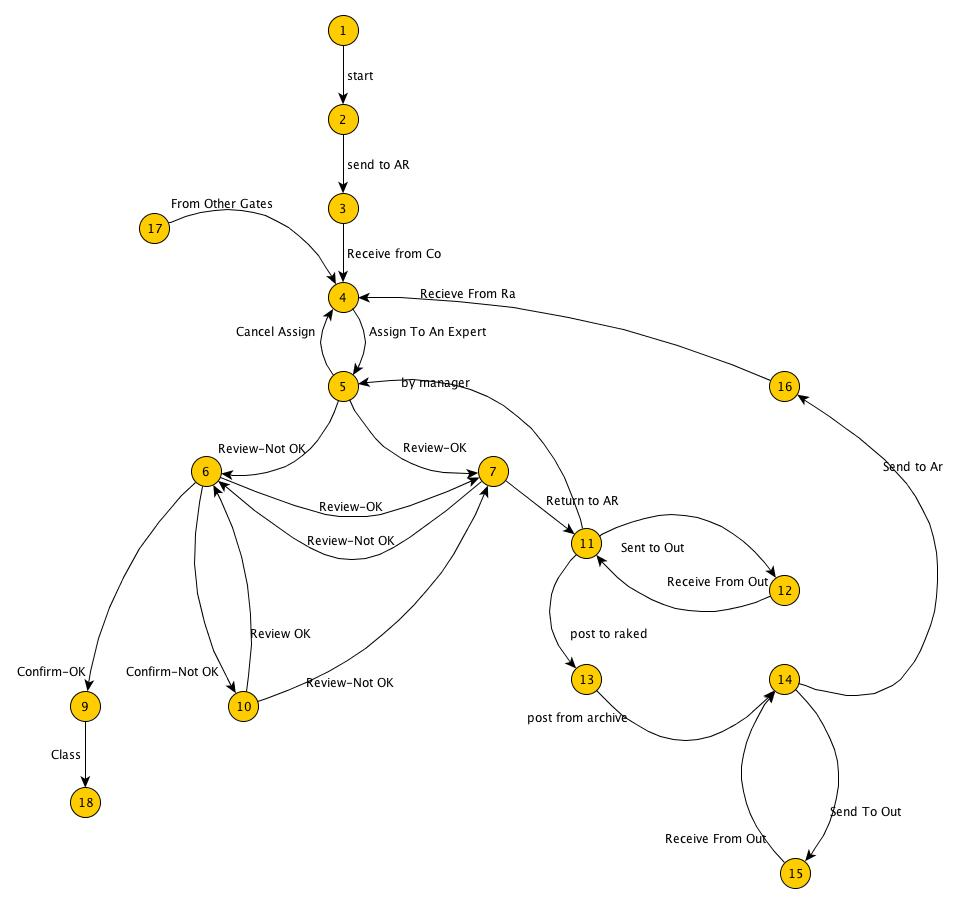
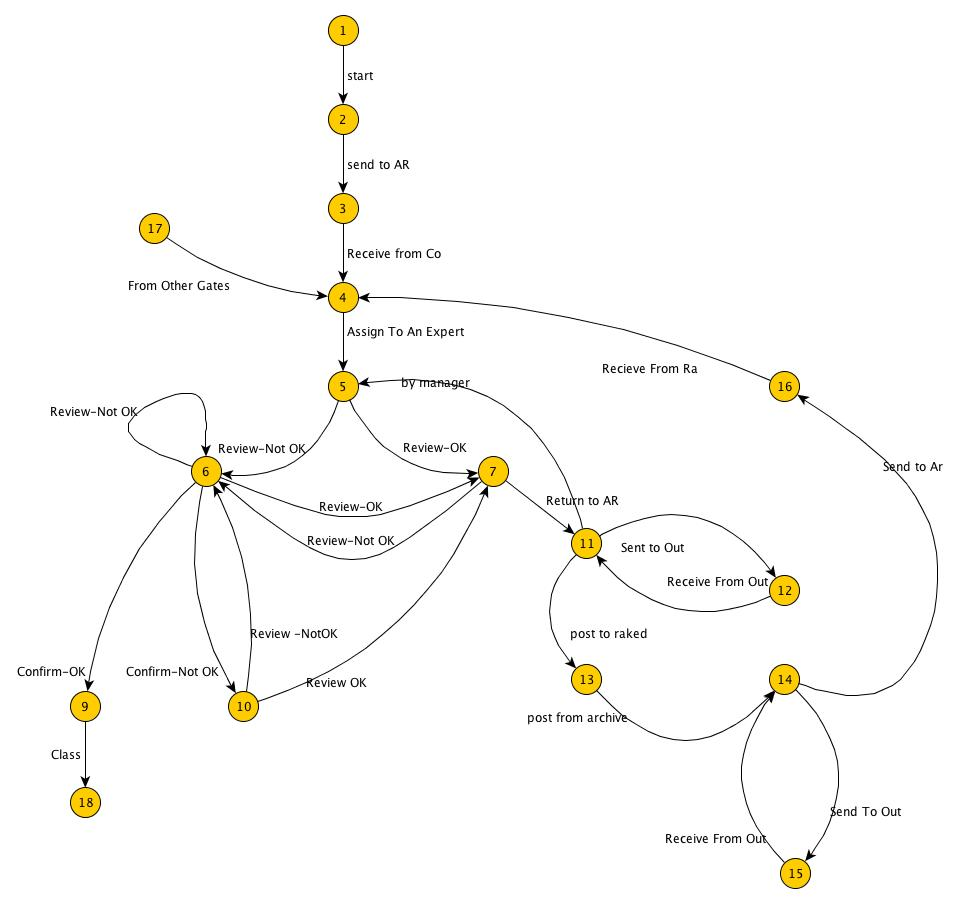
fsm picture fixed some buges

diff --git a/app/view/default/jchat/iframe.php b/app/view/default/jchat/iframe.php
@@ -1,2 +1,39 @@
-<?php
-$this->i->Present();
+<!DOCTYPE html>
+<html>
+  <head>
+    <meta name="viewport" content="initial-scale=1.0, user-scalable=no" />
+    <style type="text/css">
+      html { height: 100% }
+      body { height: 100%; margin: 0; padding: 0 }
+      #map_canvas { height: 100% }
+    </style>
+    <script type="text/javascript"
+      src="http://maps.googleapis.com/maps/api/js?key=AIzaSyBM2d7XoPYtTcV9cWm-_IJc8B01pHNObxY&sensor=true&language=fa">
+    </script>
+    <script type="text/javascript">
+      function initialize() {
+        var myOptions = {
+          center: new google.maps.LatLng(35.66, 51.434),
+          zoom: 13,
+          mapTypeId: google.maps.MapTypeId.ROADMAP
+        };
+        var map = new google.maps.Map(document.getElementById("map_canvas"),
+            myOptions);
+		google.maps.event.addListener(map, 'click', function(event) {
+			    placeMarker(event.latLng,map);
+			  });
+      }
+	  function placeMarker(position, map) {
+			alert(position);
+	        var marker = new google.maps.Marker({
+	          position: position,
+	          map: map
+	        });
+	        map.panTo(position);
+	      }
+    </script>
+  </head>
+  <body onload="initialize()">
+    <div id="map_canvas" style="width:100%; height:100%"></div>
+  </body>
+</html>

diff --git a/app/model/file/fsm.php b/app/model/file/fsm.php
@@ -210,15 +210,35 @@ class FileFsm extends JModel
 			$f->SetState(11);
 		}
 	}
-	public static function Moderate4()
+	public static function ModerateTo7()
 	{
-		$files=ORM::Query(new ReviewFile)->GetFilesWithLastProgress("Sendfile",0,99999999);
+		$files=ORM::Query(new ReviewFile)->GetFilesWithLastProgress("Review",0,99999999);
+		foreach($files as $f)
+		{
+			if($f->LastProgress()->Result()==1)
+			$f->SetState(7);
+		}
+	}
+	public static function ModerateTo11()
+	{
+	$files=ORM::Query(new ReviewFile)->GetFilesWithLastProgress("Receivefile",0,99999999);
+		echo "4";
 		//ORM::Dump($files);
 		foreach($files as $f)
 		{
-			$f->SetState(12);
+			$f->SetState(11);
 		}
-		ORM::Flush();
+	}
+	
+	public static function Moderate4()
+	{
+// 		$files=ORM::Query(new ReviewFile)->GetFilesWithLastProgress("Sendfile",0,99999999);
+// 		ORM::Dump($files);
+// 		foreach($files as $f)
+// 		{
+// 			$f->SetState(12);
+// 		}
+// 		ORM::Flush();
 		$files=ORM::Query(new ReviewFile)->GetFilesWithLastProgress("Receivefile",0,99999999);
 		echo "4";
 		//ORM::Dump($files);

diff --git a/app/control/main.php b/app/control/main.php
@@ -5,10 +5,9 @@ class MainController extends BaseControllerClass
 
 	function Start()
 	{
-		echo b::CotagValidation(1234567);
-		echo b::CotagValidation('1234567');
-		echo b::CotagValidation('123.567');
-		echo b::CotagValidation("0111111");
+		FileFsm::ModerateTo7();
+		FileFsm::ModerateTo11();
+// 		echo b::CotagValidation(1234567);
 // 		var_dump(strval(123));
 // 		echo b::GenerateClassNum(248);
 // 		file_put_contents("a.txt", "salam", FILE_APPEND | LOCK_EX);
